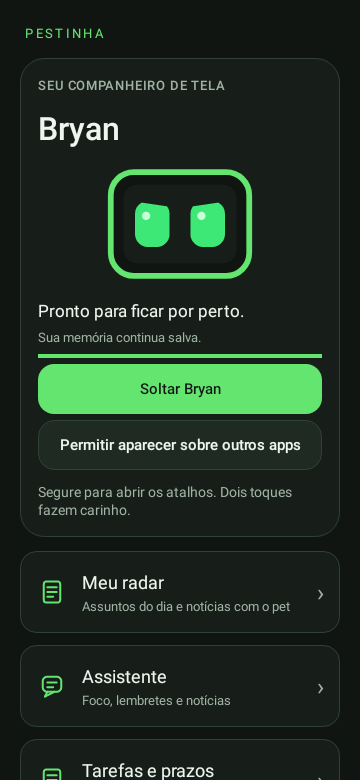
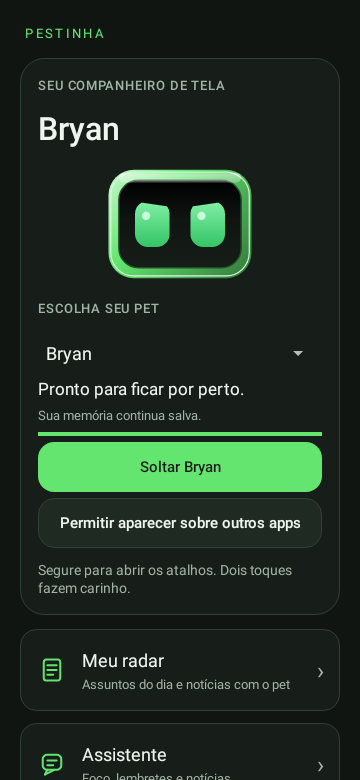
Document published Android 0.16 with Presidente and current native previews

diff --git a/CHANGELOG.md b/CHANGELOG.md
@@ -2,7 +2,7 @@
 
 Este é o lugar para consultar **o que mudou e qual APK baixar**.
 
-## Versão atual: 0.15 experimental
+## Versão atual: 0.16 experimental
 
 **[Baixar o APK atual](https://github.com/duOCELOT/pestinha-duOCELOT/releases/latest/download/Pestinha-Android.apk)** ·
 [Release com hash e código-fonte](https://github.com/duOCELOT/pestinha-duOCELOT/releases/latest) ·
@@ -15,7 +15,8 @@ Android 8.0+, ARM64 ou x86_64. O arquivo já é `.apk`, sem ZIP ou login.
 
 | Versão | Principal novidade | APK público |
 | --- | --- | --- |
-| **0.15 — atual** | Novo nome e visual do L.U.L.A | **[Baixar 0.15](https://github.com/duOCELOT/pestinha-duOCELOT/releases/download/android-v0.15.0/Pestinha-Android.apk)** |
+| **0.16 — atual** | Presidente, novo acabamento e seletor de pet no topo | **[Baixar 0.16](https://github.com/duOCELOT/pestinha-duOCELOT/releases/download/android-v0.16.0/Pestinha-Android.apk)** |
+| 0.15 | Novo nome e visual do L.U.L.A | **[Baixar 0.15](https://github.com/duOCELOT/pestinha-duOCELOT/releases/download/android-v0.15.0/Pestinha-Android.apk)** |
 | 0.14 | Notícias: fechar sem abrir; cuidados, visual e dois pets novos | **[Baixar 0.14](https://github.com/duOCELOT/pestinha-duOCELOT/releases/download/android-v0.14.0/Pestinha-Android.apk)** |
 | 0.13 | Fundo transparente no Arkanoid | **[Baixar 0.13](https://github.com/duOCELOT/pestinha-duOCELOT/releases/download/android-v0.13.0/Pestinha-Android.apk)** |
 | 0.12 | Arkanoid com o próprio pet como plataforma | Histórico de desenvolvimento |
@@ -26,11 +27,20 @@ Android 8.0+, ARM64 ou x86_64. O arquivo já é `.apk`, sem ZIP ou login.
 | 0.7 | Biblioteca RSS e pausas conscientes | Histórico de desenvolvimento |
 | Anteriores | Pet nativo, personagens, memória e interações | Histórico de desenvolvimento |
 
-**0.15, 0.14 e 0.13 têm Releases públicas.** As linhas marcadas como histórico
+**0.16, 0.15, 0.14 e 0.13 têm Releases públicas.** As linhas marcadas como histórico
 registram a evolução do app e não têm pacotes separados para instalar. Seus antigos
 artefatos de teste não são o canal de download. Para novas instalações, use o APK atual.
 
 ## Detalhes das mudanças
+
+### 0.16 — Presidente e visual dos personagens
+
+- Nome **Presidente**, com descrição curta sem nomes de pessoas ou partidos.
+- Textos autorais com bordões populares nas interações, cuidados, tarefas e avisos. Sem voz ou modelo de IA.
+- Moldura vermelha forte, orelhas assimétricas, cabelo e barba brancos e faixa decorativa.
+- Gradientes de brilho, tela escura e acessórios em camadas nos pets; borda e olhos continuam personalizáveis por personagem.
+- Escolha de personagem no cartão superior, junto da prévia. Guarde o pet antes de trocar.
+- IDs, memórias, backups e preferências de cores existentes preservados.
 
 ### 0.15 — L.U.L.A
 

diff --git a/README.md b/README.md
@@ -4,7 +4,7 @@ Um pet sobre os seus aplicativos, com personalidade, memória, tarefas, notícia
 
 ## Baixar e instalar
 
-**Versão atual: 0.15 experimental.** Android 8.0+, ARM64 ou x86_64.
+**Versão atual: 0.16 experimental.** Android 8.0+, ARM64 ou x86_64.
 
 ### [⬇ Baixar Pestinha-Android.apk](https://github.com/duOCELOT/pestinha-duOCELOT/releases/latest/download/Pestinha-Android.apk)
 
@@ -21,13 +21,15 @@ APK direto, sem ZIP ou login. Não precisa de Termux, Ubuntu ou VNC.
 **[Todas as informações das versões estão nesta página →](CHANGELOG.md)**
 
 Ela reúne o que mudou, qual é a versão atual e quais versões têm APK publicado.
-A **0.15** renomeia e melhora o visual do **L.U.L.A**, preservando os cuidados, a personalização e as funções anteriores. As funções anteriores continuam incluídas.
+A **0.16** traz o **Presidente**, acabamento com brilho nos personagens, cores de borda e olhos personalizáveis e escolha do pet junto da prévia no topo. Inclui todas as funções anteriores.
 
 [Release atual: APK, hash e código correspondente](https://github.com/duOCELOT/pestinha-duOCELOT/releases/latest)
 
 ## Conheça o app
 
 <p>
+  <img src="docs/android/images/inicio.png" width="210" alt="Tela principal com seletor de personagens junto da prévia">
+  <img src="docs/android/images/presidente.png" width="210" alt="Presidente com moldura vermelha, cabelo e barba brancos e faixa decorativa">
   <img src="docs/android/images/menu-rapido.png" width="210" alt="Menu do pet com posição fixa e Arkanoid">
   <img src="docs/android/images/radar.png" width="210" alt="Escolha dos interesses e fontes de notícias">
   <img src="docs/android/images/arkanoid.png" width="210" alt="Arkanoid transparente com Mimir como plataforma">
@@ -35,7 +37,7 @@ A **0.15** renomeia e melhora o visual do **L.U.L.A**, preservando os cuidados, 
 
 Prévias da interface renderizadas em testes, com dados de exemplo. O campo do jogo é transparente; no celular, você vê o aplicativo aberto por baixo.
 
-- **Bryan, Jorge, Mimir, Luna e L.U.L.A:** aparência, temperamento e memórias separados.
+- **Bryan, Jorge, Mimir, Luna e Presidente:** aparência, temperamento e memórias separados.
 - **Interação:** carinho, brinquedos, sensores e opção de fixar o pet onde soltar.
 - **Arkanoid:** pet como plataforma, três vidas, fases e recorde por personagem.
 - **Organização:** tarefas com prazo, água, foco e lembretes.

diff --git a/docs/android/CUIDADOS.md b/docs/android/CUIDADOS.md
@@ -1,4 +1,4 @@
-# Cuidados, visual e funções locais — 0.14
+# Cuidados, visual e funções locais
 
 ## Notícias: fechar e ler são ações diferentes
 
@@ -27,9 +27,8 @@ e ainda não entram no backup neural JSON. Não mudam a identidade/seed do perso
 ## Personagens novos
 
 - **Luna:** pet feminina, curiosa e afetuosa, moldura rosa e laço como visual inicial.
-- **L.U.L.A:** robô com barba clara e moldura vermelha; caricatura fictícia
-  inspirada em Luiz Inácio Lula da Silva. Não oficial, sem endosso ou falas reais.
-  As frases são brincadeiras do pet, não aconselhamento político ou campanha.
+- **Presidente:** pet de barba branca, moldura vermelha e faixa decorativa.
+  Descrição curta e falas de humor sobre a rotina do personagem.
 
 Ambos mantêm o formato do projeto e têm memórias próprias. Guarde o pet antes de trocar.
 
@@ -46,8 +45,12 @@ seleção explícita, runtime compatível, limites de memória/tempo e execuçã
 Nenhuma saída do provedor pode virar código, comando ou ação arbitrária.
 
 
-Na 0.15, o nome exibido passa a L.U.L.A. O visual ganha cabelo grisalho, sobrancelhas e barba com bigode em camadas. O ID `lula` e a seed são preservados para manter memórias e backups compatíveis.
+## Visual e seleção na 0.16
 
-<img src="images/lula.png" width="240" alt="L.U.L.A com cabelo grisalho, sobrancelhas, bigode e barba em camadas">
+O nome exibido é Presidente. O ID `lula` e a seed continuam iguais para preservar a memória. A descrição no app não cita nomes ou partidos. As falas são textos autorais com bordões populares, não citações reais nem voz clonada.
+O acabamento usa gradientes nativos e acessórios em camadas, não uma imagem 3D estática. Borda e olhos continuam independentes. O seletor de pets fica no cartão superior, junto da prévia.
 
-Prévia nativa renderizada nos testes da compilação 0.15, não captura de um aparelho.
+
+<img src="images/presidente.png" width="280" alt="Presidente com moldura vermelha forte, barba branca e faixa decorativa">
+
+Prévia nativa renderizada nos testes da compilação 0.16; não é captura de um aparelho. Preferências de cor salvas são mantidas: use **Restaurar visual original** para voltar à paleta padrão do personagem.

diff --git a/docs/android/images/README.md b/docs/android/images/README.md
@@ -1,17 +1,17 @@
-# Prévias da interface Android 0.13
+# Prévias da interface Android
 
 As imagens são renderizações de **Views Android reais**, executadas por Robolectric
 com gráficos nativos. **Não são capturas de um telefone nem imagens de uma sessão pessoal.**
 Dados exibidos nos testes de memória são exemplos de teste, não medições de um usuário.
 
-Todas as imagens abaixo foram extraídas dos logs da
+As imagens originais foram extraídas dos logs da
 [compilação validada 0.13](https://github.com/duOCELOT/pestinha-duOCELOT/actions/runs/41541064297).
 
 | Arquivo | Conteúdo | Teste de origem |
 | --- | --- | --- |
-| [inicio.png](inicio.png) | Tela principal com Bryan e navegação atual | `DesignTest` |
+| [inicio.png](inicio.png) | Tela principal 0.16 com escolha do pet junto da prévia | `DesignTest` |
 | [menu-rapido.png](menu-rapido.png) | Menu de segurar com Fixar no lugar e Arkanoid | `DesignTest` |
-| [mimir.png](mimir.png) | Personagem azul-gelo e elmo viking | `DesignTest` |
+| [mimir.png](mimir.png) | Mimir 0.16 com elmo, gola e medalhão | `DesignTest` |
 | [memoria.png](memoria.png) | Painel de Mimir com valores de exemplo | `DashboardTest` |
 | [radar.png](radar.png) | Seleção diária por cartões de assuntos | `InterestsDesignTest` |
 | [arkanoid.png](arkanoid.png) | Campo, controles e o PetView original como plataforma | `ArkanoidOverlayTest` |
@@ -23,3 +23,7 @@ do GitHub não faz parte do jogo.
 
 O aspecto varia com densidade, tamanho da tela, fontes, permissões, estado do pet e Android.
 Interface e documentação seguem a [licença do projeto](../../../LICENSE).
+
+## Atualização 0.16
+
+`inicio.png`, `mimir.png`, `bryan.png`, `luna.png` e `presidente.png` vêm da [compilação validada 0.16](https://github.com/duOCELOT/pestinha-duOCELOT/actions/runs/41645282506), via `DesignTest`. Mostram o desenho Canvas real, com transparência, gradientes e acessórios em camadas. `lula.png` permanece como registro da versão 0.15.

diff --git a/.github/release-notes/android-v0.16.0.md b/.github/release-notes/android-v0.16.0.md
@@ -1,0 +1,16 @@
+## Presidente e novo acabamento dos pets
+
+- O personagem passa a se chamar **Presidente**, com descrição simples sem nomes de pessoas ou partidos.
+- Bordões populares em textos autorais nas interações e funções do personagem. Não há áudio, voz clonada ou LLM.
+- Moldura vermelha forte, orelhas assimétricas, cabelo e barba brancos e faixa decorativa.
+- Acabamento com gradientes de brilho e acessórios em camadas nos personagens. Cores da borda e dos olhos continuam personalizáveis por pet.
+- Seletor de personagem junto da prévia no topo. Guarde o pet antes de trocar.
+- Mesmos IDs e memórias; preferências de cores existentes preservadas.
+
+### Instalar ou atualizar
+
+Baixe **Pestinha-Android.apk** abaixo e instale sobre a versão atual. Não desinstale antes: desinstalar apaga os dados locais. Android 8.0+, ARM64 ou x86_64; sem Termux ou VNC.
+
+APK experimental de desenvolvimento, com assinatura fixa e `debuggable=true`. A atualização contém todas as funções anteriores. A arte é desenhada em Canvas no Android, mantendo animações e personalização; não é uma reprodução estática da imagem de referência.
+
+O APK é publicado após compilação, lint, verificação de conteúdo e testes Python/JVM/Robolectric. Veja os guias e a central de versões no repositório.

diff --git a/docs/android/GUIA-DO-APK.md b/docs/android/GUIA-DO-APK.md
@@ -406,5 +406,5 @@ Pausar/fechar ficam no topo. Veja o [guia do jogo](ARKANOID.md).
 ## Cuidados, visual e novos personagens
 
 [Guia dos cuidados e guarda-roupa](CUIDADOS.md): fome, saúde, clima simulado, cores, acessórios e funções locais.
-O catálogo agora inclui Luna e Lula (caricatura não oficial), além de Bryan, Jorge e Mimir.
+O catálogo inclui Bryan, Jorge, Mimir, Luna e Presidente. Na 0.16, a escolha fica no cartão superior, junto da prévia. Guarde o pet antes de trocar.
 Nos balões de notícias, tocar no texto ou em Fechar apenas dispensa. Use Ler notícia para abrir o cartão.
